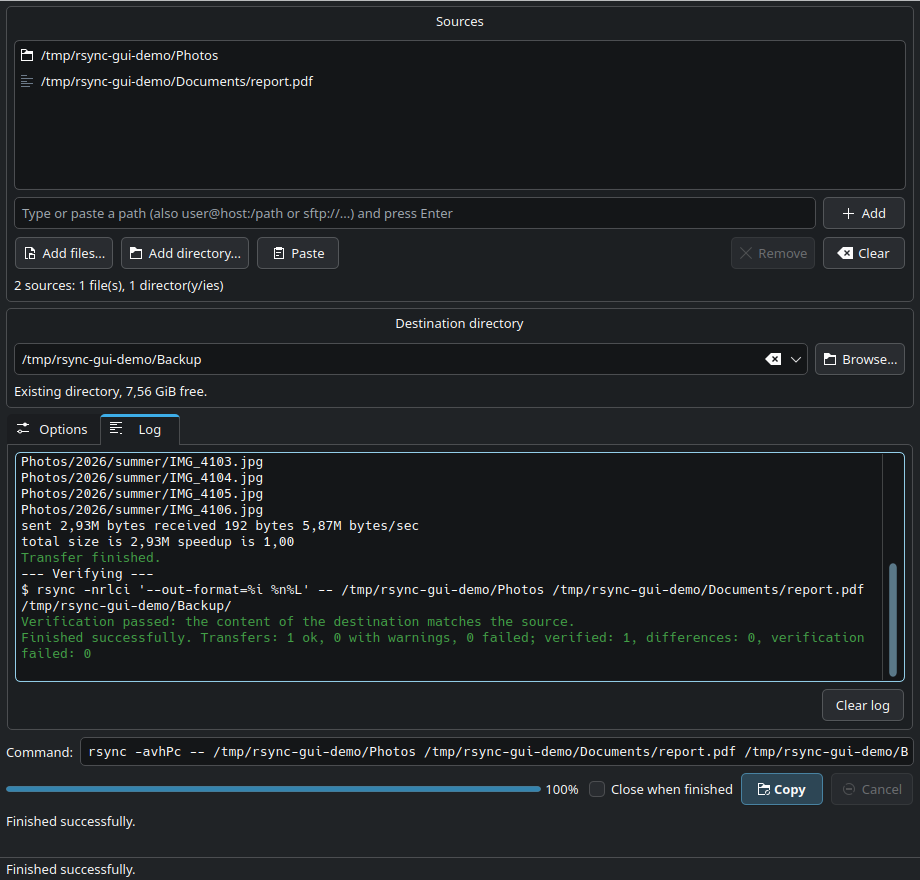
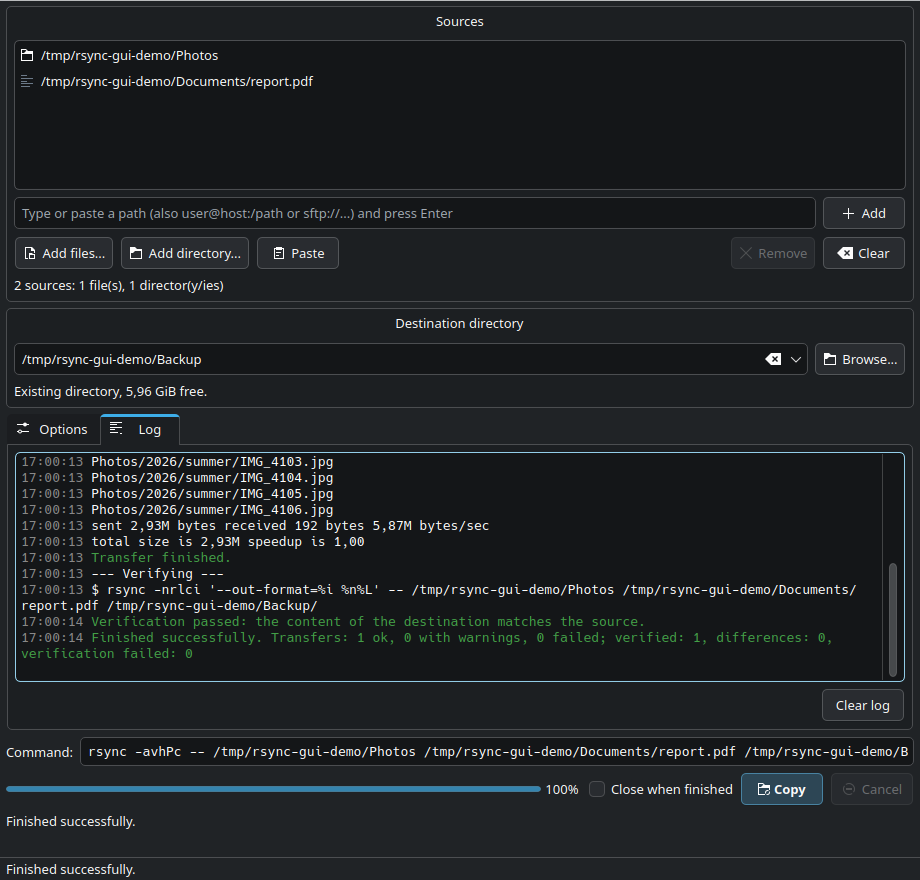
Log: start every line with the time
HH:mm:ss in grey at the start of every log line (every line of a
multi-line message too); the README screenshot of the log is updated.

Changed region(s): [[0.0, 0.5216, 0.9739, 0.767]]

diff --git a/src/mainwindow.cpp b/src/mainwindow.cpp
@@ -37,6 +37,7 @@
 #include <QStorageInfo>
 #include <QTabWidget>
 #include <QtConcurrent/QtConcurrentRun>
+#include <QTime>
 #include <QTimer>
 #include <QUrl>
 #include <QVBoxLayout>
@@ -1257,9 +1258,14 @@ void MainWindow::appendLog(RsyncJob::LogLevel level, const QString &text)
     case RsyncJob::LogLevel::Output:
         break;
     }
-    const QString escaped = text.toHtmlEscaped();
-    m_log->appendHtml(color.isEmpty() ? escaped
-                                      : QStringLiteral("<span style=\"color:%1\">%2</span>").arg(color, escaped));
+    // Every line starts with the time (in grey), also every line of a multi-line message.
+    const QString time = QTime::currentTime().toString(QStringLiteral("HH:mm:ss"));
+    const QString timeHtml = QStringLiteral("<span style=\"color:#888888\">%1</span> ").arg(time);
+    for (const QString &line : text.split(QLatin1Char('\n'))) {
+        const QString escaped = line.toHtmlEscaped();
+        m_log->appendHtml(timeHtml + (color.isEmpty() ? escaped
+                                                      : QStringLiteral("<span style=\"color:%1\">%2</span>").arg(color, escaped)));
+    }
 }
 
 void MainWindow::onJobFinished()

diff --git a/README.md b/README.md
@@ -22,7 +22,8 @@ be passed as additional arguments.
   **any other arguments** (e.g. `--exclude='*.tmp' --mkpath`),
 - **verification after copying**: a second rsync pass that compares checksums of the source and the
   destination and lists every file that differs or is missing,
-- preview of the generated command, progress bar (per file or overall), speed and ETA, log,
+- preview of the generated command, progress bar (per file or overall), speed and ETA, a log with
+  the time of every line,
   cancellation, confirmation only for options that delete files, optional **closing the window
   when the transfer finishes** successfully,
 - **progress outside the window** (KDE Plasma): on the task manager entry and as a job in the
